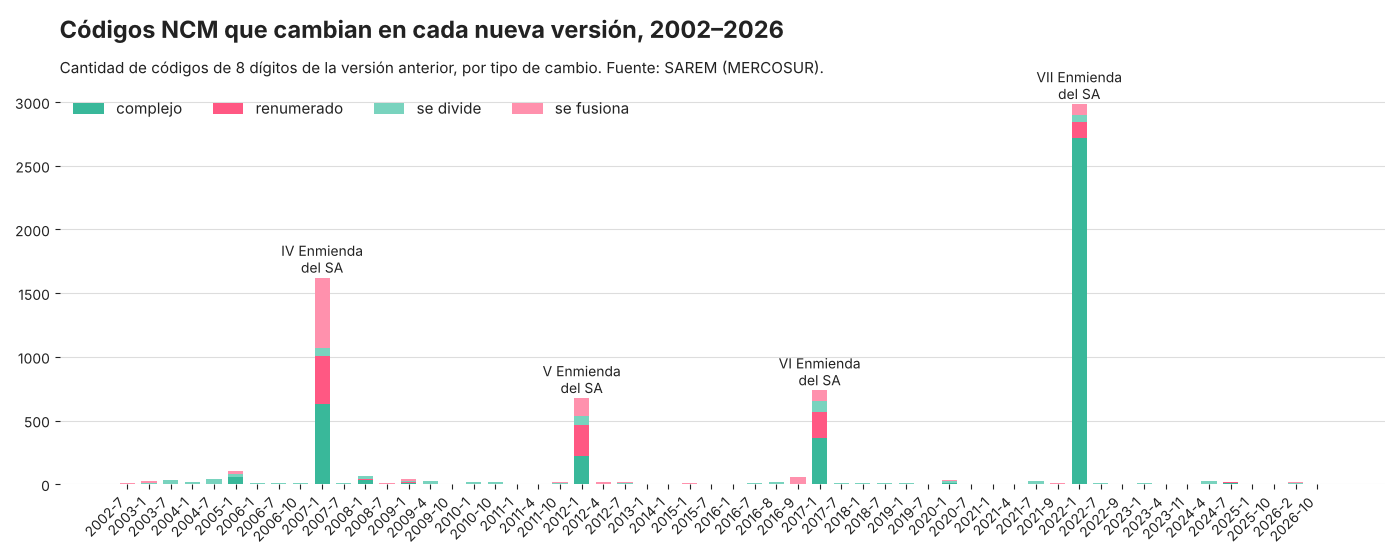
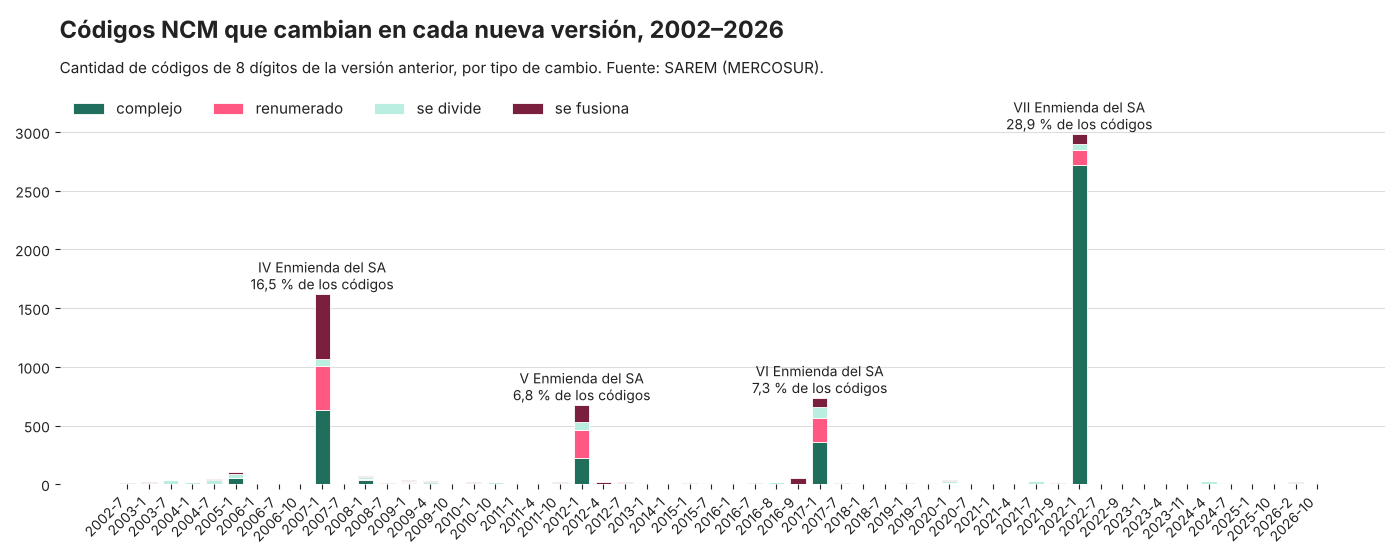
Nomenclaturas: % por enmienda, aviso de correlaciones y VIII Enmienda, versiones aclaradas, enlace por código; listas: Bolivia, frecuencias, LNE frente al tope, materias primas con autorización, gráfico de líneas y normas enlazadas

diff --git a/docs/index.html b/docs/index.html
@@ -137,10 +137,10 @@ footer { margin-top: 48px; padding: 28px 0 48px; border-top: 1px solid var(--lin
 
 <section id="cuanto">
   <h2>La mayoría de los cambios llega con las enmiendas del Sistema Armonizado</h2>
-  <p>Cada cinco años la Organización Mundial de Aduanas revisa el Sistema Armonizado, la base de los primeros 6 dígitos de la NCM. En esas fechas (2007, 2012, 2017 y 2022) cambian cientos o miles de códigos; entre una enmienda y otra los cambios son pocos.</p>
+  <p>Cada cinco años la Organización Mundial de Aduanas revisa el Sistema Armonizado, la base de los primeros 6 dígitos de la NCM. En esas fechas (2007, 2012, 2017 y 2022) cambian cientos o miles de códigos; entre una enmienda y otra los cambios son pocos. La más grande fue la VII Enmienda (2022), que cambió el 28,9 % de los códigos; la IV (2007), el 16,5 %; la V (2012), el 6,8 %, y la VI (2017), el 7,3 %. La próxima, la VIII Enmienda (Sistema Armonizado 2027), rige desde el 1 de enero de 2027: el traductor se va a actualizar con esa versión.</p>
   <div class="kpis">
-    <div class="kpi"><div class="v">63</div><div class="l">versiones de la NCM, enero 2002 a noviembre 2026</div></div>
-    <div class="kpi"><div class="v">5.872</div><div class="l">códigos que cambiaron al menos una vez</div></div>
+    <div class="kpi"><div class="v">63</div><div class="l">versiones de la NCM descargadas de SAREM, enero 2002 a noviembre 2026 (más marzo 2019, reconstruida)</div></div>
+    <div class="kpi"><div class="v">5.872</div><div class="l">códigos distintos de 8 dígitos que cambiaron al menos una vez (cada código se cuenta una sola vez, aunque haya cambiado varias)</div></div>
     <div class="kpi"><div class="v">10.516</div><div class="l">códigos vigentes en noviembre de 2026</div></div>
   </div>
   <div class="card graf">
@@ -172,8 +172,9 @@ footer { margin-top: 48px; padding: 28px 0 48px; border-top: 1px solid var(--lin
 
 <section id="como">
   <h2>Cómo se armó</h2>
-  <p>Se descargaron del sistema SAREM de la Secretaría del MERCOSUR las 63 versiones de la NCM y las tablas de correlación entre cada versión y la siguiente. Las tablas se encadenaron versión por versión, de enero de 2002 a noviembre de 2026, y cada tramo se controló contra SAREM. En los pasos de las enmiendas del Sistema Armonizado se revisaron además con las tablas de correlación de la Organización Mundial de Aduanas.</p>
-  <p>El arancel externo común (AEC) que muestra el buscador es el de la versión de noviembre de 2026. Cuando un código viejo va a varios códigos nuevos, el buscador los muestra todos: elegir el correcto depende del producto.</p>
+  <p>Se descargaron del sistema SAREM de la Secretaría del MERCOSUR las 63 versiones de la NCM y las tablas de correlación entre cada versión y la siguiente. Las tablas se encadenaron versión por versión, de enero de 2002 a noviembre de 2026, y cada tramo se controló contra SAREM. En los pasos de las enmiendas del Sistema Armonizado se revisaron además con las tablas de correlación de la Organización Mundial de Aduanas. Marzo de 2019 no tiene archivo en SAREM: se armó desde enero de 2019 con la tabla de correlación (por eso el mapeo usa 64 versiones). Y uno de los 63 archivos, la carpeta "2022" de SAREM, repite los códigos de septiembre de 2021.</p>
+  <p>El arancel externo común (AEC) que muestra el buscador es el de la versión de noviembre de 2026. Cuando un código viejo va a varios códigos nuevos, el buscador los muestra todos: elegir el correcto depende del producto, y se decide con la descripción y las notas de la nomenclatura, no por el parecido del número.</p>
+  <p><b>Ojo al comparar series de comercio:</b> cuando un código se divide, se fusiona o tiene una correspondencia compleja, la tabla dice a qué códigos nuevos puede ir, pero no cuánto del comercio del código viejo corresponde a cada uno. Para repartir valores hace falta información del producto o un método de conversión propio.</p>
   <details><summary>¿Para qué sirve?</summary><p>Para comparar series de comercio de distintos años con la misma nomenclatura, por ejemplo despachos aduaneros de 2011 y de 2025, o para saber qué arancel corresponde hoy a un producto que se registró con un código viejo.</p></details>
   <details><summary>¿Es oficial?</summary><p>No. Es una recopilación independiente hecha con los archivos públicos de SAREM. Para cualquier uso formal, consulte la fuente oficial.</p></details>
 </section>
@@ -190,6 +191,7 @@ footer { margin-top: 48px; padding: 28px 0 48px; border-top: 1px solid var(--lin
 <footer>
   <div class="wrap">
     <p>Proyecto: <a href="https://github.com/silvia-mov/nomenclaturas-y-correlaciones-del-mercosur">Nomenclatura Común del MERCOSUR: versiones y correlaciones</a> · <a href="listas.html">Listas de la nomenclatura</a> · <a href="https://silvia-mov.github.io/">Página principal</a></p>
+    <p>Última actualización: 20 de noviembre de 2026 (NCM de noviembre de 2026).</p>
     <p>Fuente: sistema SAREM de la Secretaría del MERCOSUR; tablas de correlación de la Organización Mundial de Aduanas. Elaboración propia. Código bajo licencia MIT.</p>
   </div>
 </footer>
@@ -202,7 +204,9 @@ footer { margin-top: 48px; padding: 28px 0 48px; border-top: 1px solid var(--lin
   const esc = s => String(s ?? "").replace(/[&<>"]/g, x => ({"&":"&amp;","<":"&lt;",">":"&gt;",'"':"&quot;"}[x]));
   const r = document.getElementById("r"), q = document.getElementById("q");
   let D = null;
-  fetch("datos/buscador.json").then(x => x.json()).then(j => { D = j; r.textContent = "Escribí un código y tocá Buscar."; })
+  // Enlace compartible: ...?codigo=85252022 busca ese código al abrir la página
+  const pedido = new URLSearchParams(location.search).get("codigo");
+  fetch("datos/buscador.json").then(x => x.json()).then(j => { D = j; r.textContent = "Escribí un código y tocá Buscar."; if (pedido) { q.value = pedido; buscar(pedido); } })
     .catch(() => { r.textContent = "No se pudieron cargar los datos. Probá recargar la página."; });
   const destino = c => { const v = D.v[c]; return "<tr><td><b>" + pto(c) + "</b></td><td style='text-align:left;white-space:normal'>" + (v ? esc(v[0]) : "–") + "</td><td>" + (v && v[1] != null ? esc(String(v[1]).replace('.', ',')) + " %" : "–") + "</td></tr>"; };
   const tabla = cs => "<div class='tw'><table><thead><tr><th>Código 2026</th><th style='text-align:left'>Descripción</th><th>AEC</th></tr></thead><tbody>" + cs.map(destino).join("") + "</tbody></table></div>";
@@ -225,7 +229,8 @@ footer { margin-top: 48px; padding: 28px 0 48px; border-top: 1px solid var(--lin
     if (D.v[c]) h += "<p><b>" + pto(c) + "</b> está vigente en noviembre de 2026" + (h ? " (volvió a usarse)" : "") + ": " + esc(D.v[c][0]) + ". AEC: <b class='v'>" + esc(String(D.v[c][1]).replace('.', ',')) + " %</b>." + (h ? "" : " No cambió desde que aparece en la NCM.") + "</p>";
     r.innerHTML = h || "<p>El código <b>" + pto(c) + "</b> no figura en ninguna versión de la NCM de 2002 a 2026.</p>";
   }
-  document.getElementById("f").addEventListener("submit", e => { e.preventDefault(); buscar(q.value); });
+  document.getElementById("f").addEventListener("submit", e => { e.preventDefault(); buscar(q.value);
+    const c = q.value.replace(/\D/g, ""); if (c) history.replaceState(null, "", "?codigo=" + c + "#buscar"); });
   document.querySelectorAll(".ejemplos a").forEach(a => a.addEventListener("click", () => { q.value = a.dataset.c; buscar(a.dataset.c); }));
 })();
 </script>

diff --git a/docs/listas.html b/docs/listas.html
@@ -122,12 +122,12 @@ footer { margin-top: 48px; padding: 28px 0 48px; border-top: 1px solid var(--lin
 
 <section id="que-son">
   <h2>Qué son estas listas</h2>
-  <p>En el MERCOSUR los cuatro países cobran, en principio, el mismo arancel a lo que viene de afuera: el <b>Arancel Externo Común (AEC)</b>. Pero hay productos en los que cada país puede cobrar otra cosa. Paraguay avisa al MERCOSUR, dos veces por año, qué productos están en cada una de estas listas.</p>
+  <p>En el MERCOSUR los países cobran, en principio, el mismo arancel a lo que viene de afuera: el <b>Arancel Externo Común (AEC)</b>. Son cinco Estados Partes: Argentina, Brasil, Paraguay, Uruguay y Bolivia, que se sumó en 2024 y adopta el AEC y la nomenclatura de forma gradual. Pero hay productos en los que cada país puede cobrar otra cosa. Paraguay avisa al MERCOSUR qué productos están en cada lista: las de bienes de capital, informática y excepciones, dos veces por año (enero y julio); la de materias primas, una vez por año.</p>
   <div class="kpis">
     <div class="kpi"><div class="v">1.257</div><div class="l">bienes de capital (BK), enero 2026</div></div>
     <div class="kpi"><div class="v">361</div><div class="l">bienes de informática y telecomunicaciones (BIT), enero 2026</div></div>
-    <div class="kpi"><div class="v">715</div><div class="l">códigos en la lista de excepciones (LNE), enero 2026</div></div>
-    <div class="kpi"><div class="v">683</div><div class="l">materias primas con arancel 0 % (lista 2025)</div></div>
+    <div class="kpi"><div class="v">715</div><div class="l">códigos en la lista de excepciones (LNE), enero 2026; el tope es 649, más hasta 50 temporarios (ver la nota)</div></div>
+    <div class="kpi"><div class="v">683</div><div class="l">materias primas en el régimen (lista 2025): arancel 0 % con autorización, para insumos de la industria</div></div>
   </div>
   <div class="grid2">
     <div class="card">
@@ -144,14 +144,16 @@ footer { margin-top: 48px; padding: 28px 0 48px; border-top: 1px solid var(--lin
     </div>
     <div class="card">
       <h3><span class="tag">RMP</span>Régimen de materias primas</h3>
-      <p>Insumos que las industrias pueden importar con arancel 0 % para fabricar en Paraguay. La lista cambia cada año. Fuera del régimen, el producto paga su arancel normal.</p>
+      <p>Insumos que las industrias pueden importar con arancel 0 % para fabricar en Paraguay. No es automático: hace falta estar autorizado y usar el insumo en la producción. La lista cambia cada año. Fuera del régimen, el producto paga su arancel normal.</p>
     </div>
   </div>
-  <p class="note">Las listas BK, BIT y la cantidad de excepciones están autorizadas por el MERCOSUR hasta 2030 (Decisión CMC 08/21 y siguientes). El detalle normativo está en el repositorio de normativa del MERCOSUR.</p>
+  <p class="note">Las listas BK y BIT y la lista de excepciones de Paraguay están autorizadas por el MERCOSUR hasta 2030: <a href="https://github.com/silvia-mov/normativa-mercosur/blob/main/decisiones/2021/DEC_008-2021_ES_texto_bienes-de-capital-y-bienes-de-informatica-y.txt">Decisión CMC 08/21</a> (bienes de capital e informática) y <a href="https://github.com/silvia-mov/normativa-mercosur/blob/main/decisiones/2021/DEC_011-2021_ES_texto_modificacion-de-la-decision-cmc-n-58-10.txt">Decisión CMC 11/21</a> (excepciones), que modifican la <a href="https://github.com/silvia-mov/normativa-mercosur/blob/main/decisiones/2010/DEC_058-2010_ES_texto_listas-nacionales-de-excepciones-al-arancel-externo-comun.txt">Decisión CMC 58/10</a>. La <a href="https://github.com/silvia-mov/normativa-mercosur/blob/main/decisiones/2025/DEC_001-2025_ES_texto_modificacion-de-la-decision-cmc-n-58-10.txt">Decisión CMC 01/25</a> repite el tope de la LNE de Paraguay (649 códigos) y agrega una LNE temporaria de hasta 50 códigos más.</p>
+  <p class="note"><b>Sobre los 715 códigos de la LNE:</b> es la cantidad de códigos distintos que trae el archivo de la notificación de enero de 2026 (casi todos con un arancel distinto del común). Supera el tope de 649, y también 699 si se suman los 50 temporarios. No pudimos conciliar la diferencia: puede que el archivo incluya códigos de otra categoría. Se muestra tal como viene en la notificación.</p>
 </section>
 
 <section id="cuantos">
   <h2>Cuántos códigos tuvo cada lista</h2>
+  <div class="card"><picture><source media="(prefers-color-scheme: dark)" srcset="img/listas_dark.png"><img src="img/listas_light.png" alt="Gráfico de líneas, 2018 a 2026: cantidad de códigos en las listas de bienes de capital, informática, excepciones y materias primas de Paraguay, con el tope de 649 de la lista de excepciones" style="width:100%;height:auto"></picture></div>
   <p>Cantidad de códigos NCM de 8 dígitos en cada notificación de Paraguay al MERCOSUR.</p>
   <div class="card tw">
     <table>
@@ -245,7 +247,7 @@ footer { margin-top: 48px; padding: 28px 0 48px; border-top: 1px solid var(--lin
   </details>
   <details>
     <summary>Por qué tantas máquinas aparecen con varios códigos de hoy</summary>
-    <p>En 2022 se crearon dos partidas que juntan productos de muchos lugares: <b>85.49</b> (residuos y chatarra de aparatos eléctricos y electrónicos) y <b>85.24</b> (módulos de pantallas). Una máquina o una parte de máquina vieja también puede terminar ahí, por ejemplo cuando se importa como chatarra. Por eso muchos bienes de capital e informática tienen, además de su código, los códigos de 85.49. En la práctica, casi siempre el que corresponde es el que tiene el mismo número o uno muy parecido.</p>
+    <p>En 2022 se crearon dos partidas que juntan productos de muchos lugares: <b>85.49</b> (residuos y chatarra de aparatos eléctricos y electrónicos) y <b>85.24</b> (módulos de pantallas). Una máquina o una parte de máquina vieja también puede terminar ahí, por ejemplo cuando se importa como chatarra. Por eso muchos bienes de capital e informática tienen, además de su código, los códigos de 85.49. Para saber cuál corresponde hay que mirar la descripción y las notas de la nomenclatura; el parecido del número no alcanza.</p>
   </details>
   <details>
     <summary>Qué no se usó</summary>
@@ -269,6 +271,7 @@ footer { margin-top: 48px; padding: 28px 0 48px; border-top: 1px solid var(--lin
 <footer>
   <div class="wrap">
     <p>Proyecto: <a href="https://github.com/silvia-mov/nomenclaturas-y-correlaciones-del-mercosur">Nomenclatura Común del MERCOSUR: versiones y correlaciones</a> · <a href="https://silvia-mov.github.io/">Página principal</a></p>
+    <p>Última actualización: 20 de noviembre de 2026 (última notificación: enero de 2026).</p>
     <p>Fuentes: notificaciones de Paraguay al MERCOSUR y sistema SAREM de la Secretaría del MERCOSUR. Código bajo licencia MIT.</p>
   </div>
 </footer>

diff --git a/python/grafico_tarjeta.py b/python/grafico_tarjeta.py
@@ -4,18 +4,22 @@ d=pd.read_csv("/home/user/nomenclaturas-y-correlaciones-del-mercosur/datos/cambi
 d["paso"]=d.version_nueva.str.replace("NCM_","").str.replace("_","-")
 t=d.groupby(["paso","tipo_cambio"]).codigo_viejo.nunique().unstack(fill_value=0)
 t=t.loc[sorted(t.index,key=lambda s:[int(x) for x in s.split("-")])]
-cols=["#39B89A","#FF5883","#79D3BE","#FF91AD","#FEC9D7","#B9EEE1"]
+# colores bien distintos en claridad (se distinguen también con daltonismo): oscuro, medio, claro, oscuro rosado
+COL={"complejo":"#1f6f5c","renumerado":"#ff5883","se divide":"#b9eee1","se fusiona":"#7a1f3d"}
+v=pd.read_csv("/home/user/nomenclaturas-y-correlaciones-del-mercosur/datos/versiones.csv"); N=dict(zip(v.version,v.codigos_8_digitos))
 for modo,bg,fg,gr in (("light","#ffffff","#222","#ddd"),("dark","#17141a","#eee","#333")):
     f,a=plt.subplots(figsize=(14,5.6),dpi=100); f.patch.set_facecolor(bg); a.set_facecolor(bg)
     b=None
     for i,c in enumerate(t.columns):
-        a.bar(t.index,t[c],bottom=b,color=cols[i%6],label=c,width=.7); b=t[c] if b is None else b+t[c]
-    a.set_title("Códigos NCM que cambian en cada nueva versión, 2002–2026",loc="left",color=fg,fontsize=17,fontweight="bold",pad=34)
+        a.bar(t.index,t[c],bottom=b,color=COL[c],label=c,width=.7,edgecolor=bg,linewidth=.6); b=t[c] if b is None else b+t[c]
+    a.set_title("Códigos NCM que cambian en cada nueva versión, 2002–2026",loc="left",color=fg,fontsize=17,fontweight="bold",pad=34); a.set_ylim(0,3400)
     a.text(0,1.03,"Cantidad de códigos de 8 dígitos de la versión anterior, por tipo de cambio. Fuente: SAREM (MERCOSUR).",transform=a.transAxes,color=fg,fontsize=11)
     a.legend(frameon=False,labelcolor=fg,ncol=len(t.columns),loc="upper left",fontsize=11)
     tot=t.sum(axis=1)
     for k,(p,e) in enumerate([("2007-1","IV"),("2012-1","V"),("2017-1","VI"),("2022-1","VII")]):
-        if p in tot.index: a.text(list(t.index).index(p),tot[p]+40,e+" Enmienda\ndel SA",ha="center",color=fg,fontsize=10)
+        if p in tot.index:
+            vv=d[d.paso==p].version_vieja.iloc[0]; pct=d[d.paso==p].codigo_viejo.nunique()/N[vv]*100
+            a.text(list(t.index).index(p),tot[p]+40,e+f" Enmienda del SA\n{pct:.1f} % de los códigos".replace(".",",",1),ha="center",color=fg,fontsize=10)
     a.tick_params(colors=fg,labelsize=10); plt.setp(a.get_xticklabels(),rotation=45,ha="right")
     for s in a.spines.values(): s.set_visible(False)
     a.yaxis.grid(True,color=gr); a.set_axisbelow(True)

diff --git a/python/grafico_listas.py b/python/grafico_listas.py
@@ -1,0 +1,38 @@
+"""Gráfico de líneas: cantidad de códigos en cada lista de Paraguay (BK, BIT, LNE y materias primas), 2018–2026.
+
+Uso (desde la raíz del repositorio): python3 python/grafico_listas.py
+Lee datos/listas/listas_resumen.csv y guarda docs/img/listas_{light,dark}.png.
+"""
+from pathlib import Path
+
+import matplotlib
+matplotlib.use("Agg")
+import matplotlib.pyplot as plt
+import pandas as pd
+
+RAIZ = Path(__file__).resolve().parent.parent
+d = pd.read_csv(RAIZ / "datos" / "listas" / "listas_resumen.csv", parse_dates=["fecha"])
+COL = {"BK": "#1f6f5c", "BIT": "#ff5883", "LNE": "#7a1f3d", "RMP": "#39b89a"}
+NOM = {"BK": "Bienes de capital (BK)", "BIT": "Informática y telecom. (BIT)", "LNE": "Excepciones (LNE)", "RMP": "Materias primas"}
+for modo, bg, fg, gr in (("light", "#ffffff", "#222222", "#dddddd"), ("dark", "#17141a", "#eeeeee", "#333333")):
+    f, a = plt.subplots(figsize=(11, 5), dpi=110)
+    f.patch.set_facecolor(bg); a.set_facecolor(bg)
+    for l, g in d.groupby("lista"):
+        g = g.sort_values("fecha")
+        a.plot(g["fecha"], g["codigos"], color=COL.get(l, fg), linewidth=2.4, marker="o", markersize=4, label=NOM.get(l, l))
+        a.text(g["fecha"].iloc[-1] + pd.Timedelta(days=40), g["codigos"].iloc[-1], f"{g['codigos'].iloc[-1]:,}".replace(",", "."),
+               color=COL.get(l, fg), fontsize=10, va="center", fontweight="bold")
+    a.axhline(649, color=fg, linestyle="--", linewidth=1)
+    a.text(d["fecha"].min(), 649 - 45, "Tope de la LNE de Paraguay: 649 códigos (Dec. CMC 11/21); desde 2025, hasta 50 más temporarios (Dec. CMC 01/25)",
+           color=fg, fontsize=9)
+    a.set_ylim(0, 1400)
+    a.set_title("Cuántos códigos tuvo cada lista de Paraguay, 2018–2026", loc="left", color=fg, fontsize=15, fontweight="bold", pad=30)
+    a.text(0, 1.02, "Códigos NCM de 8 dígitos en cada notificación al MERCOSUR. Faltan las de 2018 (2.º semestre), 2019 y 2024, y materias primas 2021–2022.",
+           transform=a.transAxes, color=fg, fontsize=9.5)
+    a.legend(frameon=False, labelcolor=fg, ncol=4, loc="upper left", bbox_to_anchor=(0, 0.99), fontsize=9.5)
+    a.tick_params(colors=fg)
+    for s in a.spines.values(): s.set_visible(False)
+    a.yaxis.grid(True, color=gr); a.set_axisbelow(True)
+    f.tight_layout()
+    f.savefig(RAIZ / "docs" / "img" / f"listas_{modo}.png", facecolor=bg)
+print("ok")
